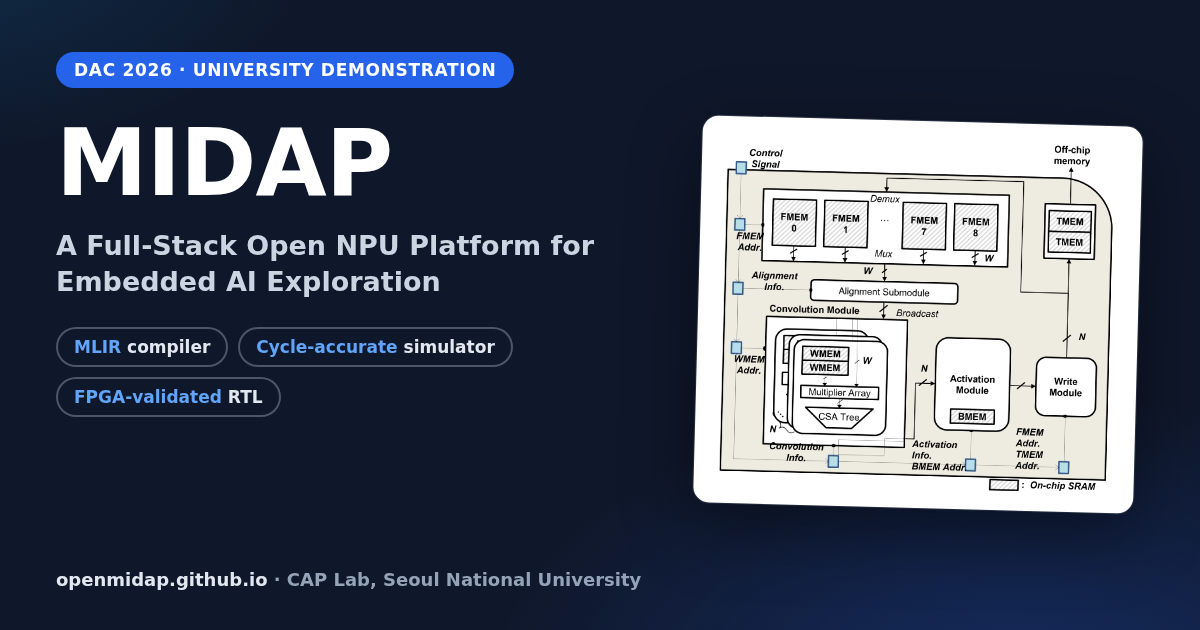
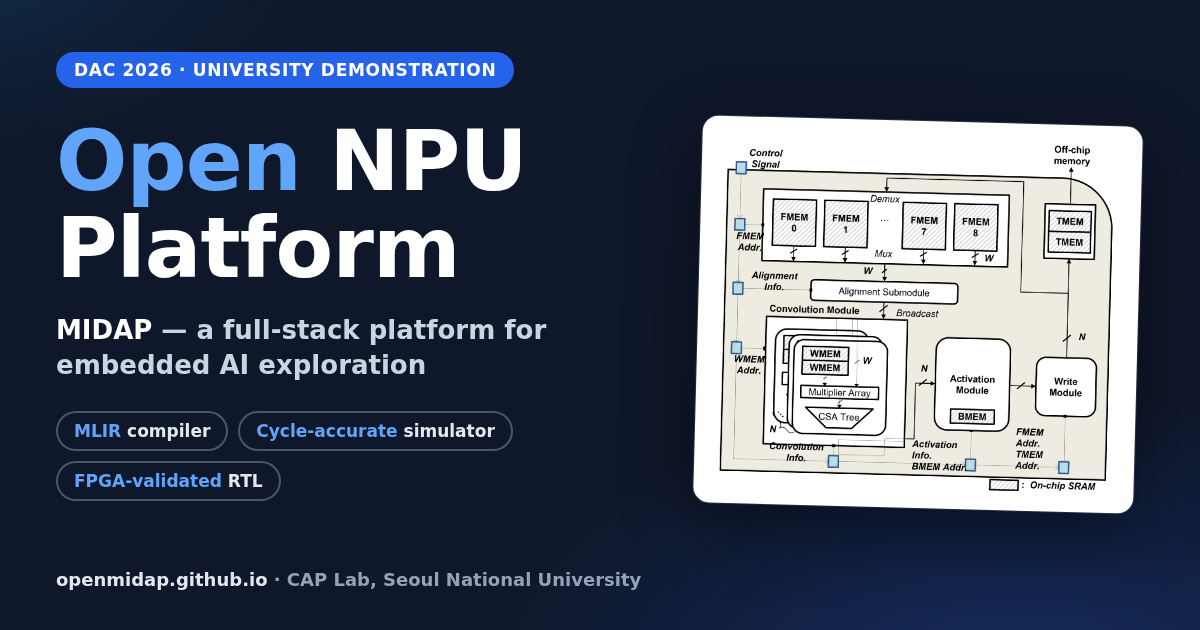
feat: social card leads with Open NPU Platform, MIDAP in the subtitle
Per user feedback on the first draft (2026-08-06): emphasize the open
NPU platform positioning over the project name.

Changed region(s): [[0.0308, 0.181, 0.4933, 0.8143]]

diff --git a/tools/og-card.html b/tools/og-card.html
@@ -16,14 +16,16 @@
     background:#2563eb; font-size:17px; font-weight:700; letter-spacing:0.04em;
     text-transform:uppercase; margin-bottom:30px;
   }
-  h1 { font-size:92px; font-weight:800; line-height:1; letter-spacing:-0.01em; margin-bottom:18px; }
-  .sub { font-size:27px; font-weight:600; line-height:1.32; color:#cbd5e1; max-width:560px; margin-bottom:28px; }
+  h1 { font-size:84px; font-weight:800; line-height:1.04; letter-spacing:-0.01em; margin-bottom:20px; }
+  h1 .accent { color:#60a5fa; }
+  .sub { font-size:26px; font-weight:600; line-height:1.35; color:#cbd5e1; max-width:560px; margin-bottom:28px; }
+  .sub b { color:#fff; }
   .chips { display:flex; flex-wrap:wrap; gap:10px; max-width:580px; }
   .chip {
     padding:8px 16px; border:2px solid rgba(148,163,184,0.45); border-radius:999px;
     font-size:17px; font-weight:600; color:#e2e8f0; background:rgba(15,23,42,0.5); white-space:nowrap;
   }
-  .chip b { color:#60a5fa; font-weight:700; }
+  .chip b { color:#60a5fa; }
   .foot { position:absolute; left:56px; bottom:40px; font-size:18px; font-weight:600; color:#94a3b8; white-space:nowrap; }
   .foot b { color:#e2e8f0; }
   .right { flex:1; display:flex; align-items:center; justify-content:center; padding:44px 48px 44px 4px; }
@@ -37,18 +39,19 @@
 <body>
   <div class="left">
     <div class="badge">DAC 2026 · University Demonstration</div>
-    <h1>MIDAP</h1>
-    <div class="sub">A Full-Stack Open NPU Platform for Embedded AI Exploration</div>
+    <h1><span class="accent">Open</span> NPU<br>Platform</h1>
+    <div class="sub"><b>MIDAP</b> — a full-stack platform for embedded AI exploration</div>
     <div class="chips">
       <div class="chip"><b>MLIR</b> compiler</div>
       <div class="chip"><b>Cycle-accurate</b> simulator</div>
       <div class="chip"><b>FPGA-validated</b> RTL</div>
     </div>
+    <div class="foot"><b>openmidap.github.io</b> · CAP Lab, Seoul National University</div>
   </div>
   <div class="right"><div class="shot"><img src="../static/images/architecture.png"></div></div>
-  <div class="foot"><b>openmidap.github.io</b> · CAP Lab, Seoul National University</div>
 </body></html>
-<!-- Social-card source (WEB-001). Regenerate og-card.png with:
+<!-- Social-card source (WEB-001; 2026-08-06 user decision: lead with "Open NPU
+     Platform", MIDAP in the subtitle). Regenerate og-card.png with:
   google-chrome --headless=new --disable-gpu --window-size=1200,800 \
     --force-device-scale-factor=1 --screenshot=og-raw.png "file://$PWD/tools/og-card.html"
   then crop to 1200x630 (this Chrome build under-paints the bottom ~90px of the
